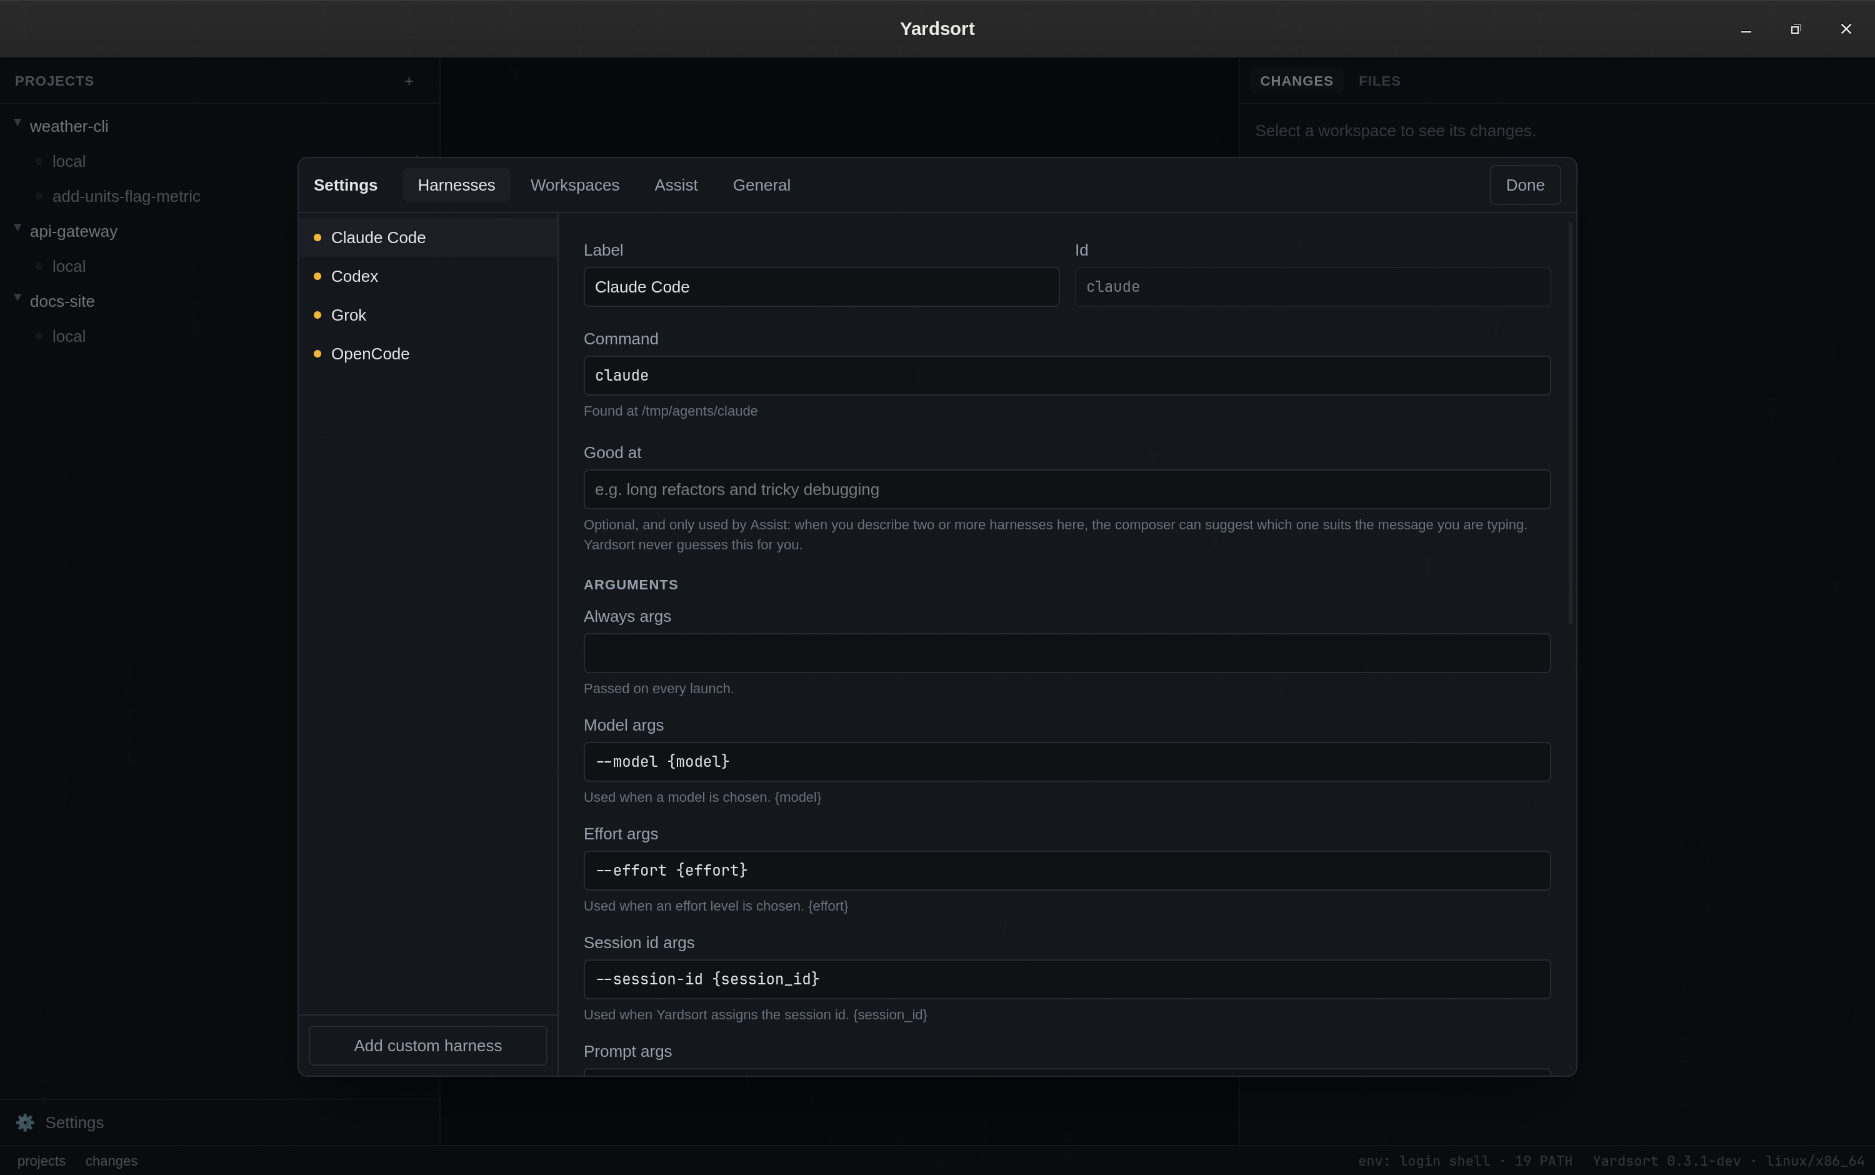
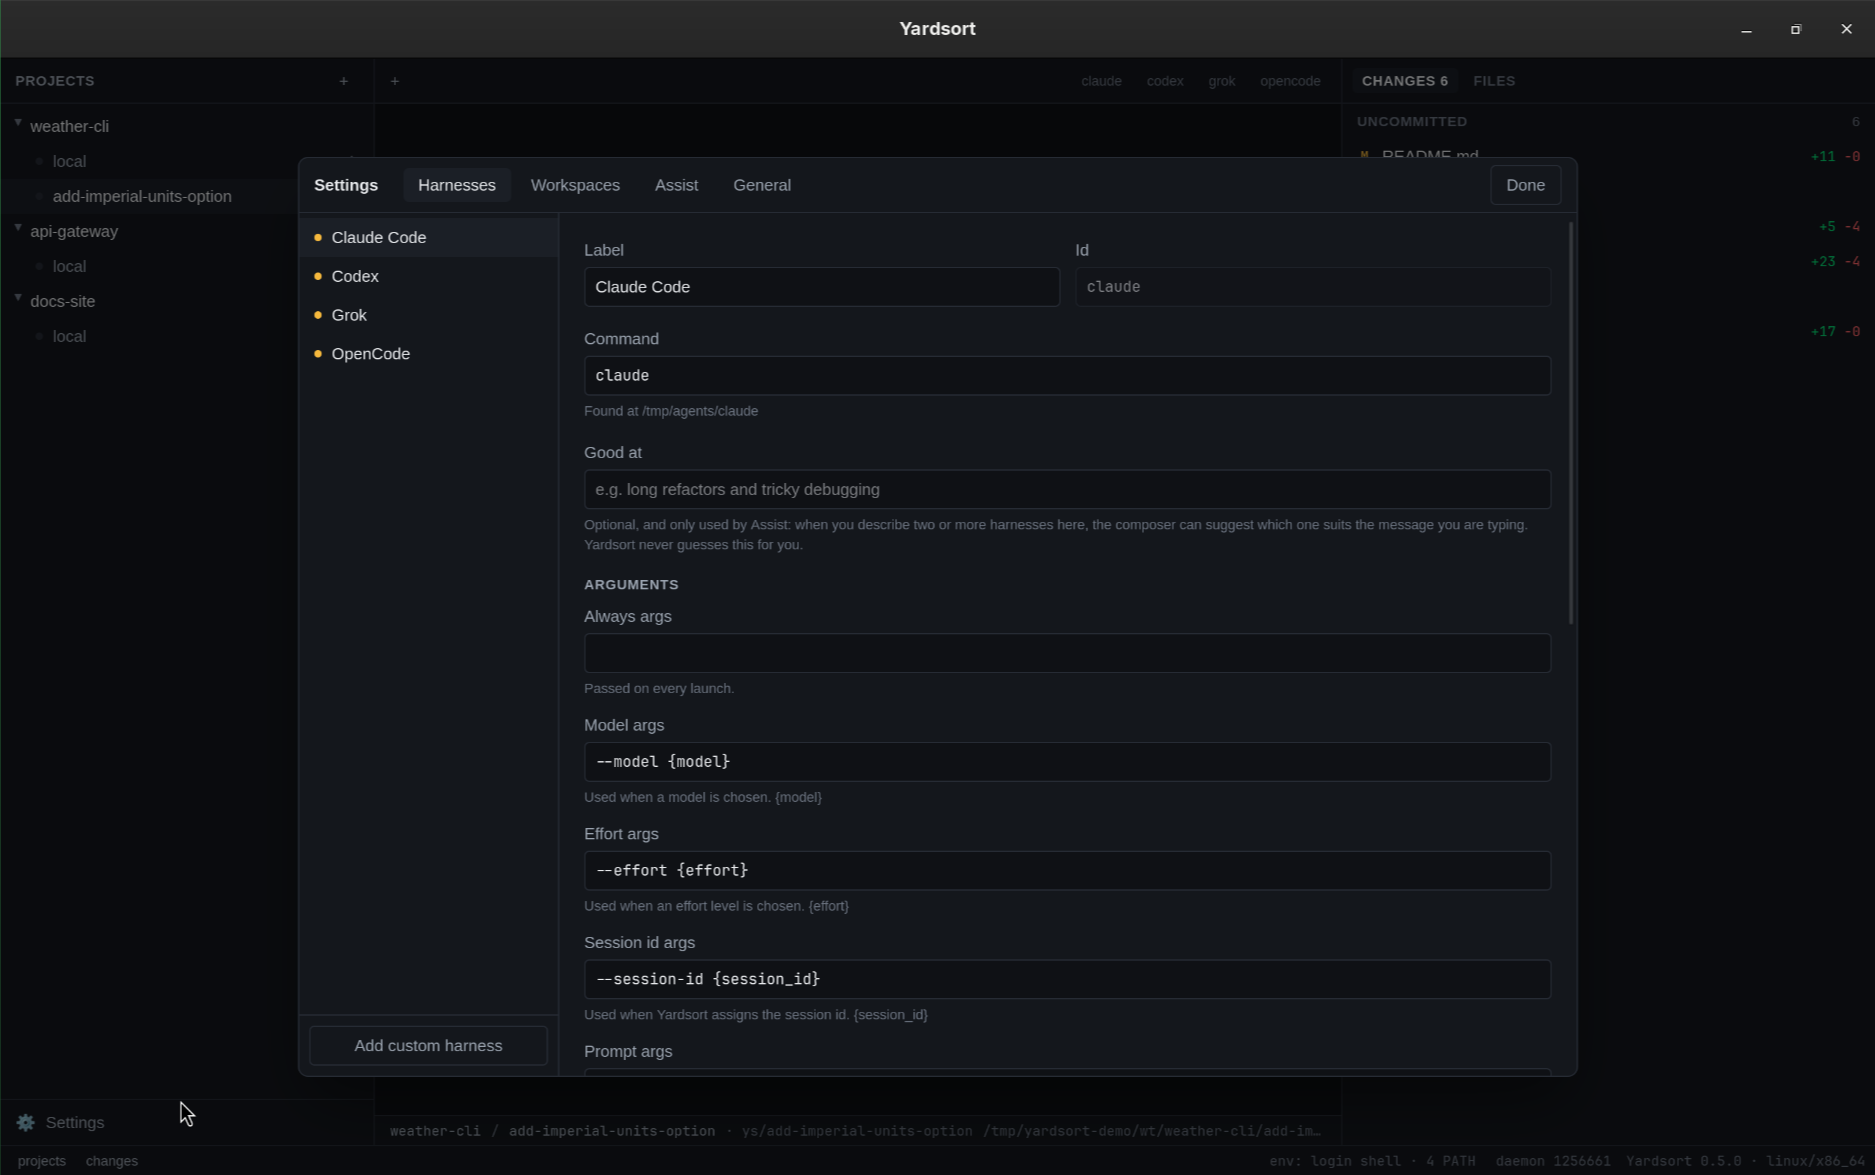
Docs: retake the screenshots
All five were from 0.1.0-dev or 0.3.1-dev and predate the daemon, so
none of them showed the background process in the status bar. Retaken
against 0.5.0 on a throwaway profile, with the same demo projects as
before — weather-cli, api-gateway, docs-site in /tmp — and a real Claude
Code run adding an imperial units option to the CLI.

Agents are resolved through shims in /tmp/agents, as the previous set
was, so no home directory reaches an image; the Assist panel is shot
with the credential store out of reach, so no key or key fragment is
shown. The landing page's alt text named cli.js, which is not the file
the new diff has open.

diff --git a/website/src/components/landing/ideas.tsx b/website/src/components/landing/ideas.tsx
@@ -98,7 +98,7 @@ export function Ideas() {
             <Shot
               name="overview"
               crop="100% 50%"
-              alt="The changes panel: modified files with line counts, and a diff of cli.js"
+              alt="The changes panel: modified files with line counts, and a diff of render.js"
             />
           }
         >
